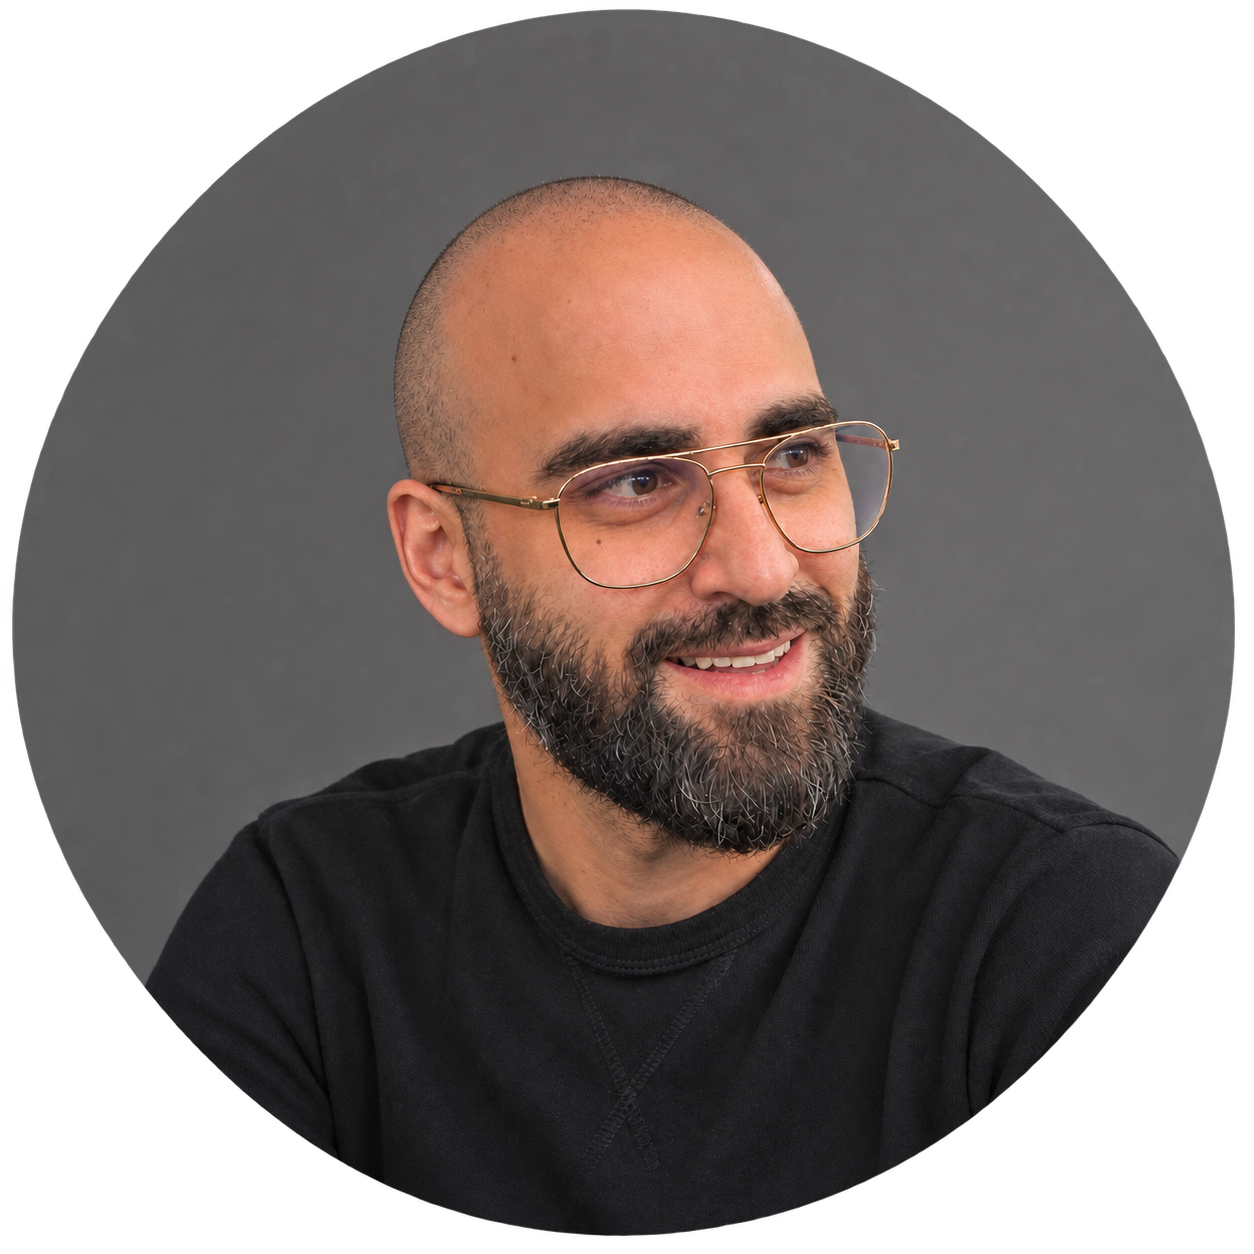
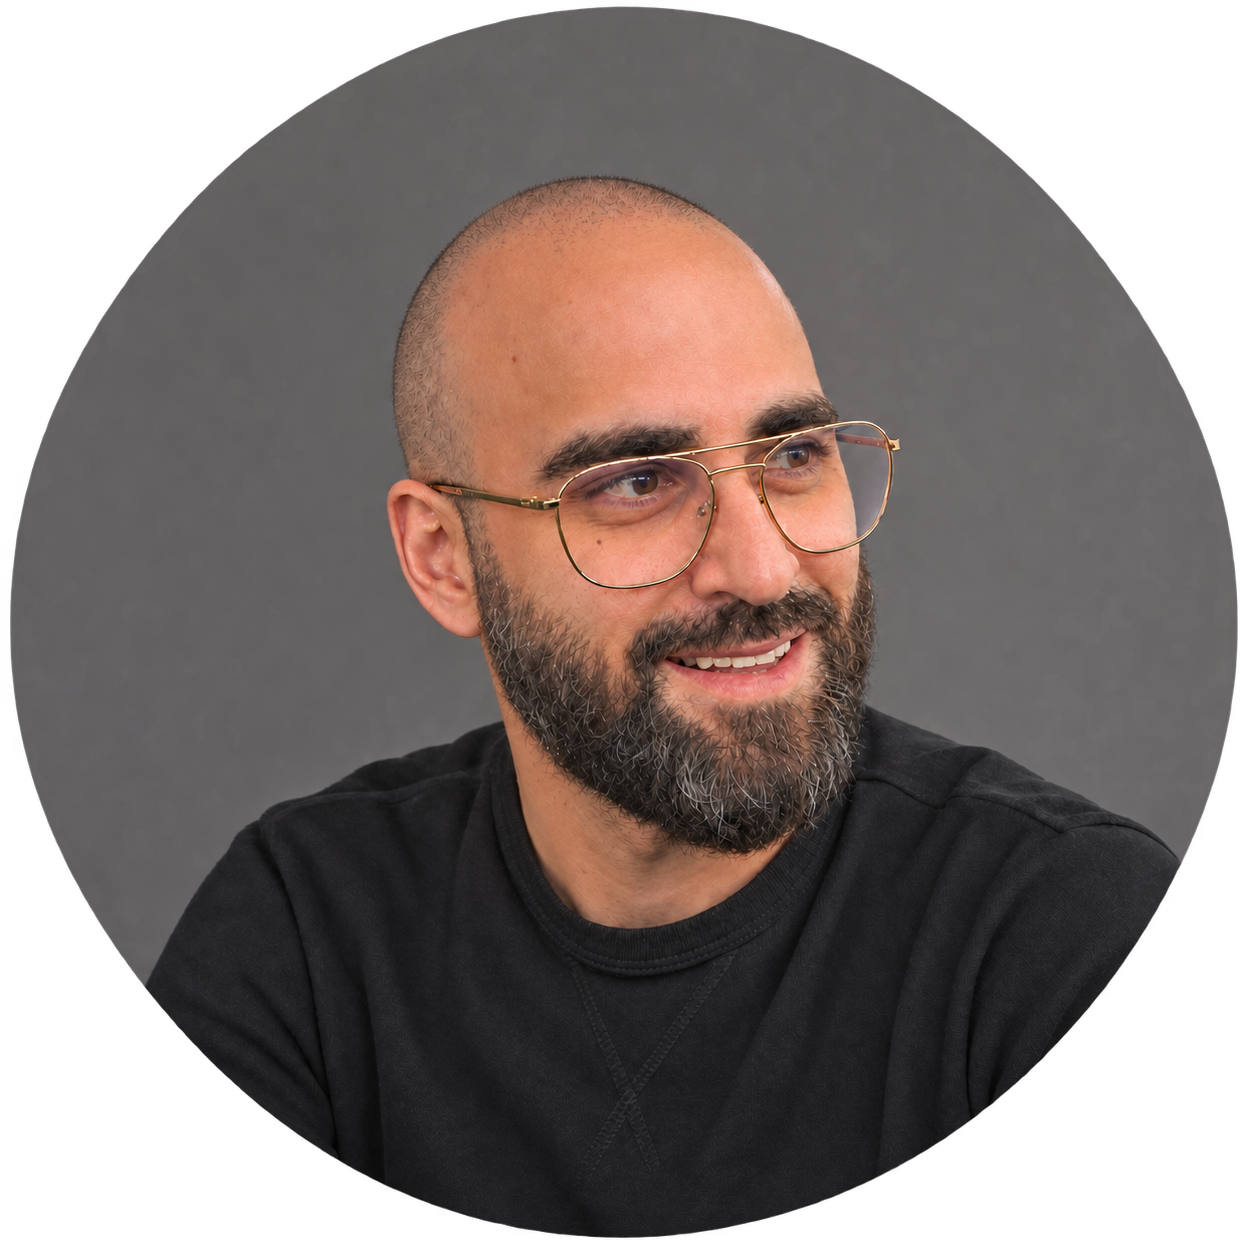
fin de jounrée

diff --git a/a-propos.html b/a-propos.html
@@ -49,7 +49,27 @@
 
 	</header>
 	<main>
-		
+		<section class="hero-portrait">
+			<h1 class="mobile-main-heading">
+				À propos de moi
+			</h1>
+			<div class="hero-portrait">
+				<div>
+					<img class="photo-portrait" src="img/photo-portrait.webp" alt="">
+				</div>
+				<div>
+					<h2 class="mobile-section-heading">
+						Un parcours varié, une nouvelle direction.
+					</h2>
+					<p class="mobile-body-text">
+						Après des expériences en technique, commerce et management, je me forme au développement web.
+					</p>
+					<p class="mobile-body-text">
+						J'aime comprendre, résoudre des problématiques et construire des projets concrets.
+					</p>
+				</div>
+			</div>
+		</section>
 	</main>
 	<footer class="interface-text">
 		<p>

diff --git a/css/style.css b/css/style.css
@@ -468,7 +468,7 @@ body {
 
 /* Accueil — Hero */
 
-.hero {
+.hero, .hero-portrait {
   position: relative;
   width: 100%;
   padding-inline: 3.2rem;
@@ -814,6 +814,17 @@ footer a {
   display: flex;
   flex-direction: column;
   gap: 2.4rem;
+}
+
+.photo-portrait {
+  width: 100%;
+  height: 100%;
+  max-width: 20rem;
+  max-height: 200rem;
+  border: solid 1px var(--purple);
+  border-radius: 100%;
+  margin-inline: auto;
+
 }
 
 @media screen and (min-width: 64em) {
